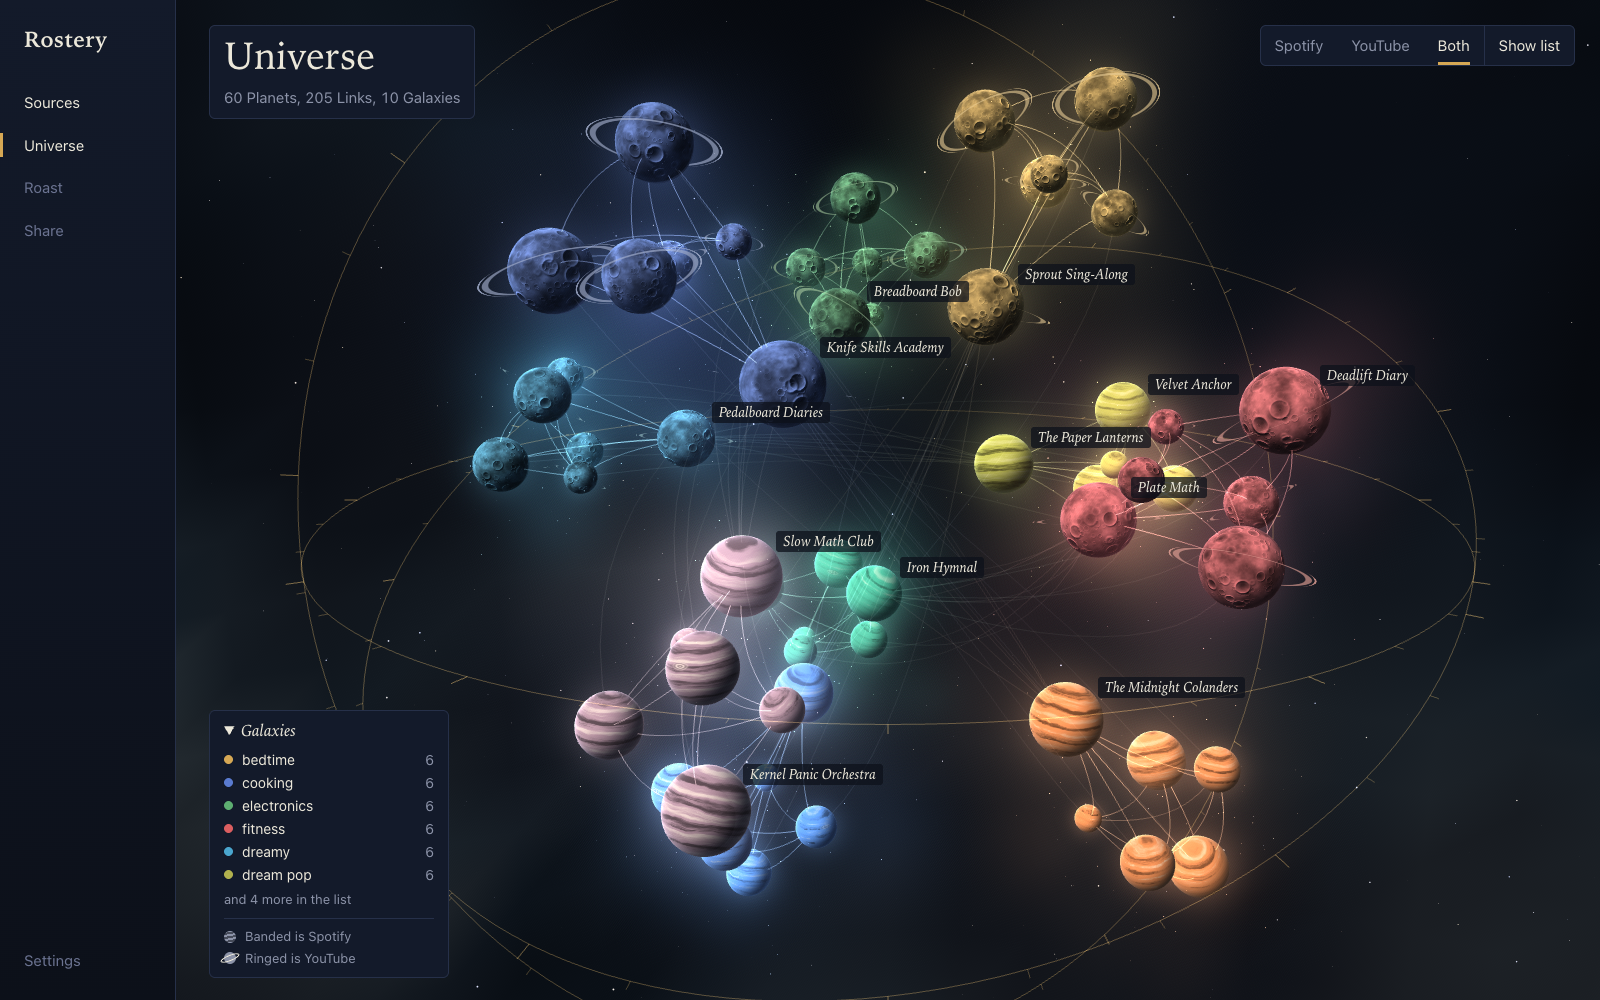
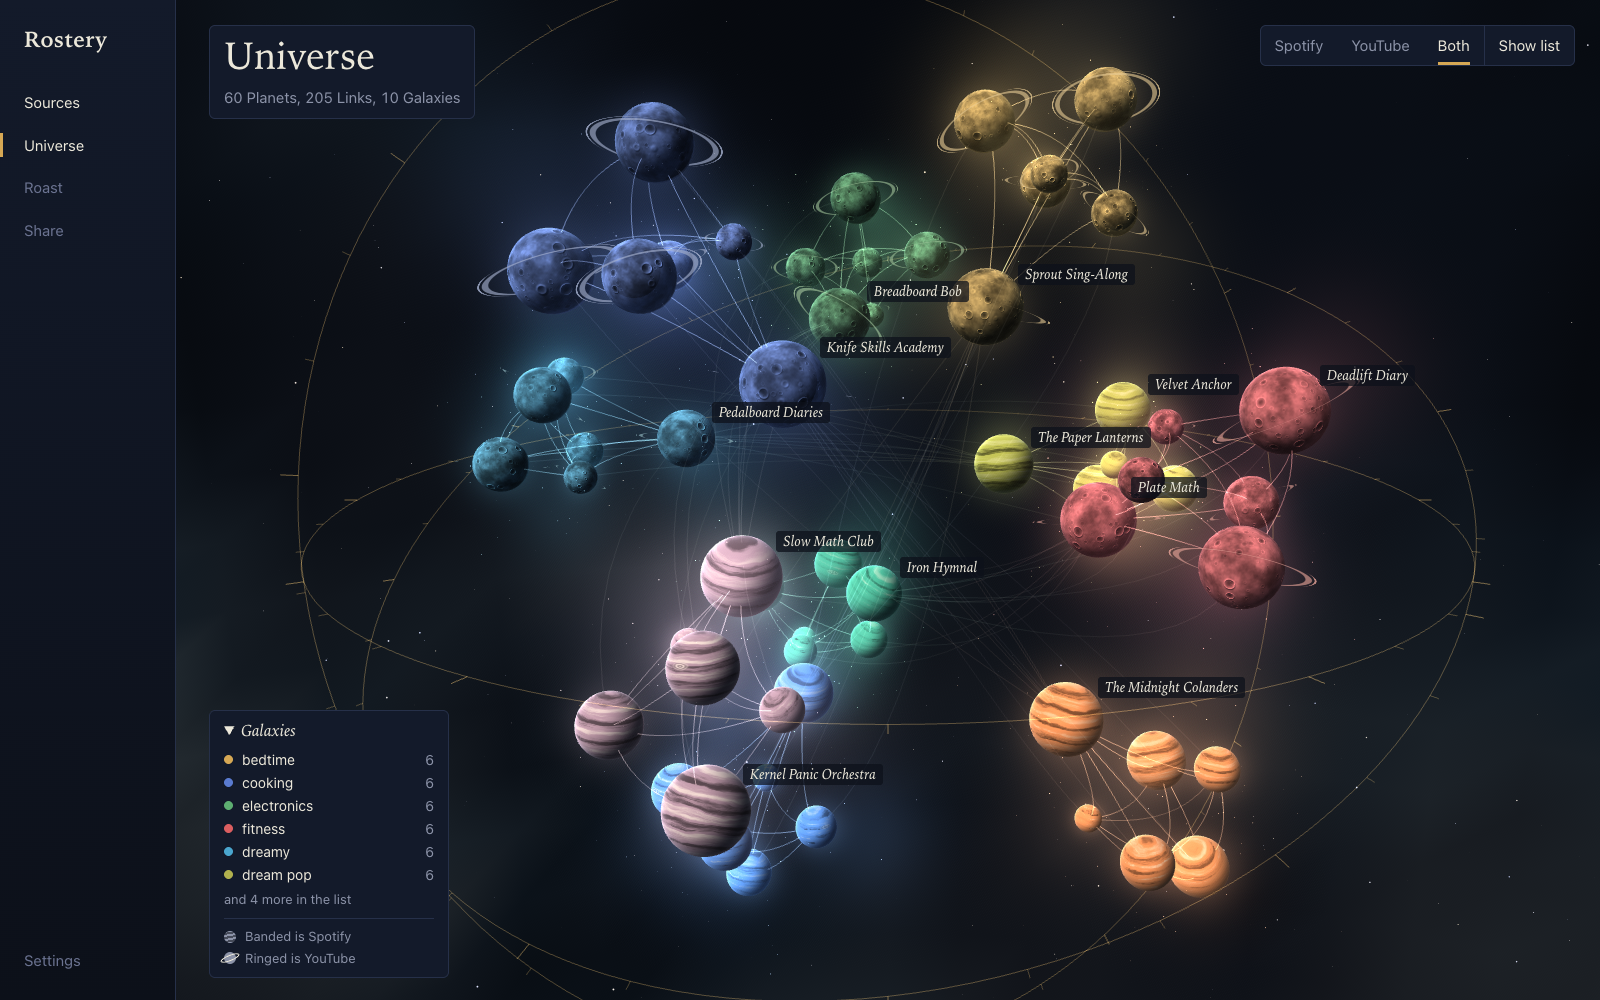
fix(universe): cut the cost of dust and craters to hold 60 frames a second
Three clouds per Planet were asking for about 99 million additive fragments
a frame on a Retina window, which held the demo to 30 frames a second on an
M1. It is one cloud each now. Craters search the 8 nearest cells, not 27, and
fine pits are skipped on a Planet too far away to show them. The screenshot is
retaken from this build, and e2e waits longer, since Chromium draws in software
and a busy machine can take many seconds over a first frame.

diff --git a/web/universe/shaders.ts b/web/universe/shaders.ts
@@ -111,16 +111,17 @@ export const planetFragment = /* glsl */ `
   // Every crater near this point added up: how the ground slopes in xyz, and how high it stands in w.
   // The slope is worked out from the crater's shape, not read off neighbouring pixels, so it stays smooth
   // however close the camera comes. The shape is a bowl, plus a lip that has faded to nothing by 1.4.
+  // A crater's centre stays in the middle half of its cell and it reaches at most half a cell, so only the
+  // 8 cells nearest this point can touch it, which is most of what makes this affordable.
   vec4 craters(vec3 p, float scale) {
-    vec3 cell = floor(p * scale);
-    vec3 inside = fract(p * scale);
+    vec3 first = floor(p * scale - 0.5);
     vec4 sum = vec4(0.0);
-    for (int x = -1; x <= 1; x++) for (int y = -1; y <= 1; y++) for (int z = -1; z <= 1; z++) {
-      vec3 near = cell + vec3(x, y, z);
-      if (hash(near + 21.7) < 0.3) continue;
-      vec3 centre = vec3(x, y, z) + vec3(hash(near), hash(near + 3.1), hash(near + 7.7));
-      float size = 0.2 + 0.34 * hash(near + 13.3);
-      vec3 away = inside - centre;
+    for (int x = 0; x <= 1; x++) for (int y = 0; y <= 1; y++) for (int z = 0; z <= 1; z++) {
+      vec3 near = first + vec3(x, y, z);
+      if (hash(near + 21.7) < 0.18) continue;
+      vec3 centre = near + 0.25 + 0.5 * vec3(hash(near), hash(near + 3.1), hash(near + 7.7));
+      float size = 0.14 + 0.21 * hash(near + 13.3);
+      vec3 away = p * scale - centre;
       float d = length(away) / size;
       if (d >= 1.4) continue;
       float inner = max(1.0 - d * d, 0.0);
@@ -137,16 +138,17 @@ export const planetFragment = /* glsl */ `
   vec3 rockSurface(vec3 p, out vec3 relief) {
     vec3 q = p + vSeed * 29.0;
     float ground = fbm(q * 2.3);
-    float grain = fbm(q * 9.0);
+    float grain = 0.6 * noise(q * 9.0) + 0.4 * noise(q * 21.0);
+    // Fine pits on a far-off Planet are smaller than a pixel, so skip all that work for something nobody sees.
     float fine = 1.0 - smoothstep(0.03, 0.14, fwidth(p.x) + fwidth(p.y));
-    vec4 big = craters(q, 2.5);
-    vec4 tiny = craters(q + 5.0, 6.0) * fine;
-    relief = big.xyz * 0.62 + tiny.xyz * 0.26;
+    vec4 big = craters(q, 2.2);
+    vec4 tiny = fine > 0.0 ? craters(q + 5.0, 4.8) * fine : vec4(0.0);
+    relief = big.xyz * 0.8 + tiny.xyz * 0.34;
 
     vec3 stone = mix(vec3(0.3, 0.29, 0.28), vTint, 0.6);
     vec3 color = mix(stone * 0.58, stone * 1.28, smoothstep(0.25, 0.75, ground));
     color *= 0.88 + 0.32 * (grain - 0.5);
-    color *= 1.0 + clamp(big.w, -1.0, 0.4) * 0.4 + clamp(tiny.w, -1.0, 0.4) * 0.16;
+    color *= 1.0 + clamp(big.w, -1.0, 0.4) * 0.5 + clamp(tiny.w, -1.0, 0.4) * 0.22;
     return color;
   }
 

diff --git a/web/universe/render.ts b/web/universe/render.ts
@@ -193,11 +193,13 @@ function surfaces(universe: Universe, materials: Materials, colors: Map<number, 
   return rings.length ? [mesh, ringMesh] : [mesh];
 }
 
-/** Soft light: a halo round each Planet, and a few clouds of dust round each, so a Galaxy shows as one place. */
+/**
+ * Soft light: a halo round each Planet, and a cloud of dust round each, so a Galaxy shows as one place. A cloud
+ * is cheap to work out but covers a lot of pixels, and that is what limits the frame rate here, so one each.
+ */
 function glows(universe: Universe, materials: Materials, colors: Map<number, Rgb>) {
   const { planets } = universe;
-  const CLOUDS_PER_PLANET = 3;
-  const mesh = new InstancedMesh(new PlaneGeometry(2, 2), materials.glow, planets.length * (1 + CLOUDS_PER_PLANET));
+  const mesh = new InstancedMesh(new PlaneGeometry(2, 2), materials.glow, planets.length * 2);
   const matrix = new Matrix4();
   const color = new Color();
   let at = 0;
@@ -221,10 +223,8 @@ function glows(universe: Universe, materials: Materials, colors: Map<number, Rgb
     add(planet.position, planet.radius * 2.5, mix(tint, IVORY, 0.12), planet.source === 'youtube' ? 0.22 : 0.3);
     const next = random(planetSeed(`${planet.name} dust`));
     const spread = reach.get(planet.galaxy)!;
-    for (let cloud = 0; cloud < CLOUDS_PER_PLANET; cloud += 1) {
-      const place = planet.position.map((c) => c + (next() - 0.5) * spread * 0.9) as Rgb;
-      add(place, spread * (0.55 + next() * 0.55), mix(tint, [0.2, 0.4, 0.55], 0.25 * next()), 0.042 + next() * 0.03);
-    }
+    const place = planet.position.map((c) => c + (next() - 0.5) * spread * 0.7) as Rgb;
+    add(place, spread * (0.72 + next() * 0.3), mix(tint, [0.2, 0.4, 0.55], 0.25 * next()), 0.1 + next() * 0.05);
   }
   mesh.frustumCulled = false;
   return mesh;

diff --git a/playwright.config.ts b/playwright.config.ts
@@ -4,6 +4,7 @@ export default defineConfig({
   testDir: 'e2e',
   // Chromium draws in software here, so a sky of many Planets on a busy machine takes its time.
   timeout: 60_000,
+  expect: { timeout: 15_000 },
   webServer: {
     // `pnpm test:e2e` builds first; this serves dist/app.
     command: 'pnpm exec vite preview',
